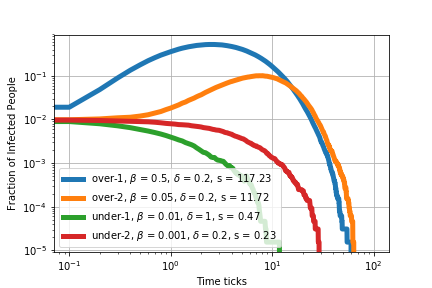
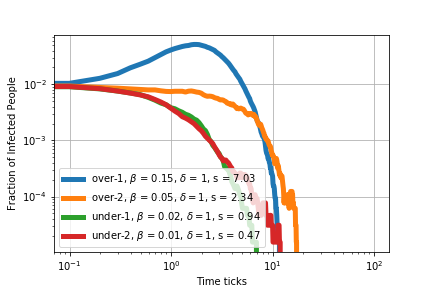
Synchronise

diff --git a/code/Operation Spectrum/gillespie_with_EoN.py b/code/Operation Spectrum/gillespie_with_EoN.py
@@ -74,9 +74,8 @@ def fig_5_left(G):
     plt.xlabel("Time ticks")
     plt.ylabel("Fraction of Infected People")
     plt.grid()
-    plt.savefig('fig_5_left.png')
+    plt.savefig('fig_5_left.png')    
     plt.show()
-
 
 def fig_5_right():
     initial_size = int(float(len(E))/(10**(2)))
@@ -84,8 +83,8 @@ def fig_5_right():
     start_time = 0
     end_time = 10
     delta = eig
-    number_of_steps = 100
-    beta_range = scipy.linspace(10**(-2), 10**2, number_of_steps)
+    number_of_steps = 20
+    beta_range = scipy.logspace(10**(-2), 10**2, number_of_steps)
     final_number_of_cured_nodes = scipy.zeros_like(beta_range)
     for i, beta  in enumerate(beta_range):
         final_number_of_cured_nodes[i] = time_evolution_SIR(E, beta, delta, initial_size, start_time, end_time, iterations, "Hi", opt = 'number_of_cured_nodes')
@@ -101,7 +100,7 @@ def fig_5_right():
 
 
 if __name__ == "__main__":
-    fig_5_left(E)
+    #fig_5_left(E)
     fig_5_right()
 
 
